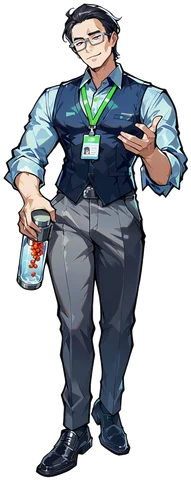
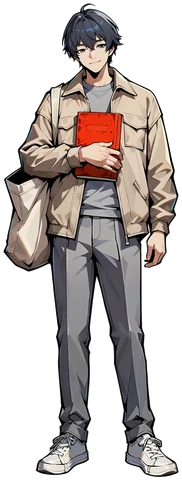
修正陈定邦/王进步立绘对调、一男一女排布、桌面卡片设计强化
- 素材修正：P8 与无用之人立绘互换（含头像），陈定邦=马甲工牌
  中层，王进步=青涩青年
- 角色顺序改为男女交替：陈定邦→苏曼曼→顾一行→王凯瑟琳→
  王进步→罗小娜
- 桌面端卡片设计感强化：
  · 恢复全身立绘（contain 330px，人物完整落地）
  · 档位色 4px 顶条（绿/红/紫）+ 档位色椭圆脚光台衬托人物
  · 卡片 6px 内描线（细奶白框），层次更精致
  · 悬停立绘上浮 8px + 微放大
- 顶条与内描线移动端卡片同样生效，与立绘舞台风格统一

Claude-Session: https://claude.ai/code/session_01Q8XebFDoV1PjWaGcwMzBNw

diff --git a/index.html b/index.html
@@ -253,6 +253,18 @@ body::after {
 .footnote { text-align: center; color: var(--text-dim); font-size: 0.78rem; margin: 24px 0 10px; }
 
 /* ---------- 角色选择 ---------- */
+.char-card { position: relative; overflow: hidden; }
+.char-card::before {
+  content: ""; position: absolute; top: 0; left: 0; right: 0; height: 4px;
+}
+.char-card.tier-light::before { background: var(--green); }
+.char-card.tier-bold::before { background: var(--red); }
+.char-card.tier-growth::before { background: #c980ff; }
+.char-card::after {
+  content: ""; position: absolute; inset: 6px;
+  border: 1px solid rgba(232, 224, 205, 0.08);
+  pointer-events: none;
+}
 /* 移动端：顶部固定立绘舞台，文字卡横滑，人物原位替换（滑动进度驱动） */
 .char-stage { position: relative; height: 44vh; min-height: 260px; margin-bottom: 4px; overflow: hidden; }
 .char-stage .stage-art {
@@ -315,10 +327,22 @@ body::after {
   .char-list { display: grid; grid-template-columns: repeat(3, 1fr); gap: 18px; overflow-x: visible; padding: 0; }
   .char-list .btn { flex: none; max-width: none; }
   .char-swipe-hint, .char-dots, .char-stage { display: none; }
-  .char-card .char-portrait { display: block; }
-  /* 立绘出血式占满卡片顶部 */
-  .char-portrait { height: 300px; margin: -12px -12px 8px; }
-  .char-portrait img { width: 100%; height: 100%; object-fit: cover; object-position: top; filter: none; }
+  .char-card .char-portrait { display: flex; align-items: flex-end; justify-content: center; }
+  /* 全身立绘出血占满卡片上半区：档位色脚光台 + 底部渐隐 */
+  .char-portrait {
+    height: 330px; margin: -12px -12px 10px;
+    background: radial-gradient(ellipse 62% 34% at 50% 88%, rgba(91, 150, 219, 0.22), transparent 72%);
+  }
+  .tier-light .char-portrait { background: radial-gradient(ellipse 62% 34% at 50% 88%, rgba(123, 216, 138, 0.20), transparent 72%); }
+  .tier-bold .char-portrait { background: radial-gradient(ellipse 62% 34% at 50% 88%, rgba(232, 93, 93, 0.20), transparent 72%); }
+  .tier-growth .char-portrait { background: radial-gradient(ellipse 62% 34% at 50% 88%, rgba(201, 128, 255, 0.22), transparent 72%); }
+  .char-portrait img {
+    height: 96%; width: auto; max-width: 100%; object-fit: contain;
+    filter: drop-shadow(3px 4px 0 rgba(0, 0, 0, 0.45));
+    transition: transform 0.18s ease;
+  }
+  .char-card:hover .char-portrait img { transform: translateY(-8px) scale(1.03); }
+  .char-card .btn-title { font-size: 1.02rem; }
   .char-flavor-art { flex-basis: 130px; }
   .char-flavor-art img { width: 130px; }
   .char-head { width: 30px; height: 30px; }
@@ -589,14 +613,6 @@ const CHARACTERS = [
     statMod: { cash: 3, network: 5 }, rollMod: {}, fxMod: [{ type: "cashLoss", mult: 0.8 }], special: [],
   },
   {
-    id: "kathy", name: "王凯瑟琳", title: "连续创业者", gender: "f", tier: "bold", emoji: "🍷",
-    desc: "第四次创业。前三次一次卖身、一次清算、一次「不方便说」。投资圈都认识她，健身房没人认识她。",
-    quote: "「这是我第四次创业。前三次的教训，值十个亿——都是投资人的十个亿。」",
-    abilities: "人脉 +15、健康 -10 ｜ 人脉骰 +2、团队骰 -1 ｜ 融资分 +15 ｜ 应酬如命：偶数节点掉血",
-    statMod: { network: 15, health: -10 }, rollMod: { network: 2, team: -1 }, fxMod: [],
-    special: ["fundScoreBonus15", "drainHealthEvenNode"],
-  },
-  {
     id: "gu", name: "顾一行", title: "天才极客", gender: "m", tier: "bold", emoji: "🤓",
     desc: "高中信息学金牌，大学退学写代码。坚信能用代码解决的问题都不是问题，而人，是问题。",
     quote: "「能用代码解决的事，为什么要开会？」",
@@ -605,12 +621,12 @@ const CHARACTERS = [
     fxMod: [{ type: "tractionGain", mult: 1.25 }], special: [],
   },
   {
-    id: "luna", name: "罗小娜", title: "流量女王", gender: "f", tier: "bold", emoji: "📱",
-    desc: "前 MCN 操盘手，捧红过 6 个百万粉账号。她自己就是行走的增长引擎，也是行走的舆情风险。",
-    quote: "「没有什么危机是一条爆款视频解决不了的。如果有，就两条。」",
-    abilities: "数据 +5、人脉 +5 ｜ 自带流量：每 3 个节点数据 +1 ｜ 热搜体质：暴击两极放大 ｜ 失败时人脉损失 +50%",
-    statMod: { traction: 5, network: 5 }, rollMod: {},
-    fxMod: [{ type: "failNetworkLoss", mult: 1.5 }], special: ["tractionOddNode", "critAmplify"],
+    id: "kathy", name: "王凯瑟琳", title: "连续创业者", gender: "f", tier: "bold", emoji: "🍷",
+    desc: "第四次创业。前三次一次卖身、一次清算、一次「不方便说」。投资圈都认识她，健身房没人认识她。",
+    quote: "「这是我第四次创业。前三次的教训，值十个亿——都是投资人的十个亿。」",
+    abilities: "人脉 +15、健康 -10 ｜ 人脉骰 +2、团队骰 -1 ｜ 融资分 +15 ｜ 应酬如命：偶数节点掉血",
+    statMod: { network: 15, health: -10 }, rollMod: { network: 2, team: -1 }, fxMod: [],
+    special: ["fundScoreBonus15", "drainHealthEvenNode"],
   },
   {
     id: "wang", name: "王进步", title: "路人甲", gender: "m", tier: "growth", emoji: "🚶",
@@ -619,6 +635,14 @@ const CHARACTERS = [
     abilities: "现金 -¥1M、其余四维 -3 ｜ 错题本：每 2 次失败，最低属性永久 +6 ｜ 渐入佳境：二阶段起全骰 +1、三阶段 +2 ｜ 厚积薄发：三阶段大成功 ×2",
     statMod: { cash: -1, traction: -3, team: -3, network: -3, health: -3 }, rollMod: {},
     fxMod: [], special: ["wrongAnswerBook", "phaseRollGrowth", "lateGameCritX2"],
+  },
+  {
+    id: "luna", name: "罗小娜", title: "流量女王", gender: "f", tier: "bold", emoji: "📱",
+    desc: "前 MCN 操盘手，捧红过 6 个百万粉账号。她自己就是行走的增长引擎，也是行走的舆情风险。",
+    quote: "「没有什么危机是一条爆款视频解决不了的。如果有，就两条。」",
+    abilities: "数据 +5、人脉 +5 ｜ 自带流量：每 3 个节点数据 +1 ｜ 热搜体质：暴击两极放大 ｜ 失败时人脉损失 +50%",
+    statMod: { traction: 5, network: 5 }, rollMod: {},
+    fxMod: [{ type: "failNetworkLoss", mult: 1.5 }], special: ["tractionOddNode", "critAmplify"],
   },
 ];
 const TIER_META = {
@@ -2414,7 +2438,7 @@ function showCharSelect(idea) {
     <div class="char-swipe-hint">◀ 左右滑动切换创始人 ▶</div>
     <div class="char-list">
       ${CHARACTERS.map((c, i) => `
-        <button class="btn char-card" data-char="${c.id}">
+        <button class="btn char-card tier-${c.tier}" data-char="${c.id}">
           ${charPortraitHtml(c)}
           <div class="btn-title"><span class="key-hint">[${i + 1}]</span>${esc(c.name)}<span class="char-title">「${esc(c.title)}」</span></div>
           <div class="char-tier tier-${c.tier}">${TIER_META[c.tier].icon} ${TIER_META[c.tier].name}</div>
